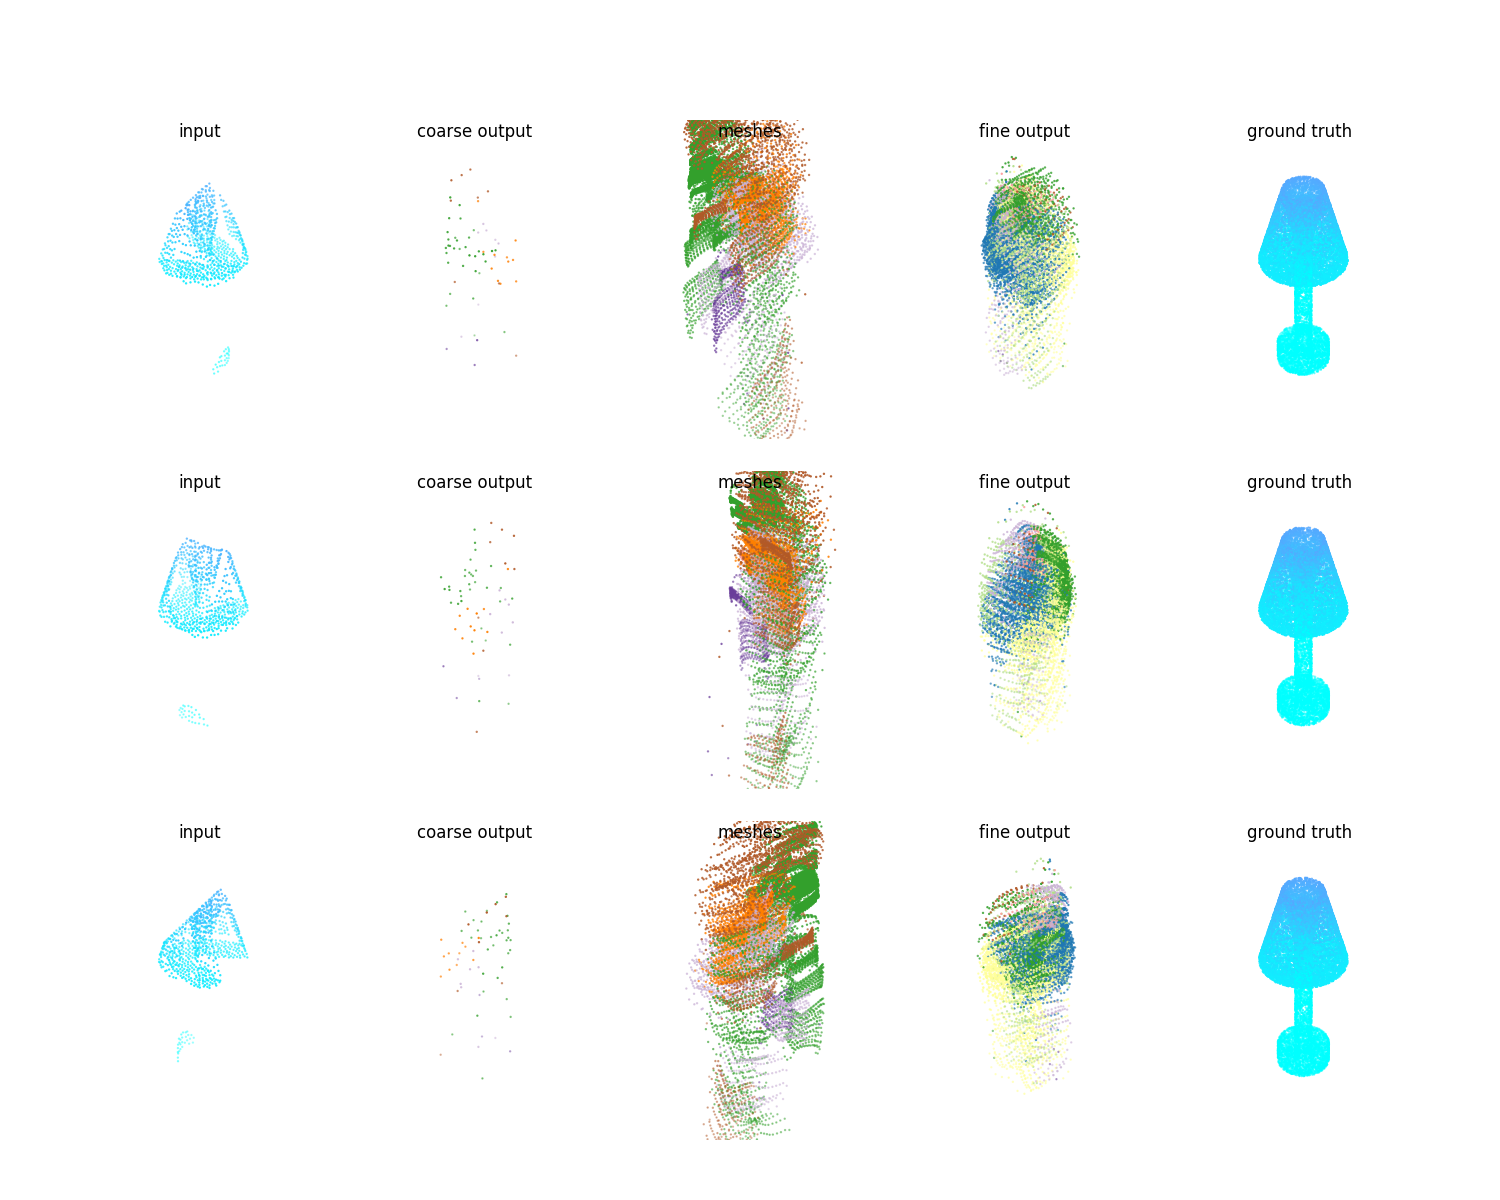
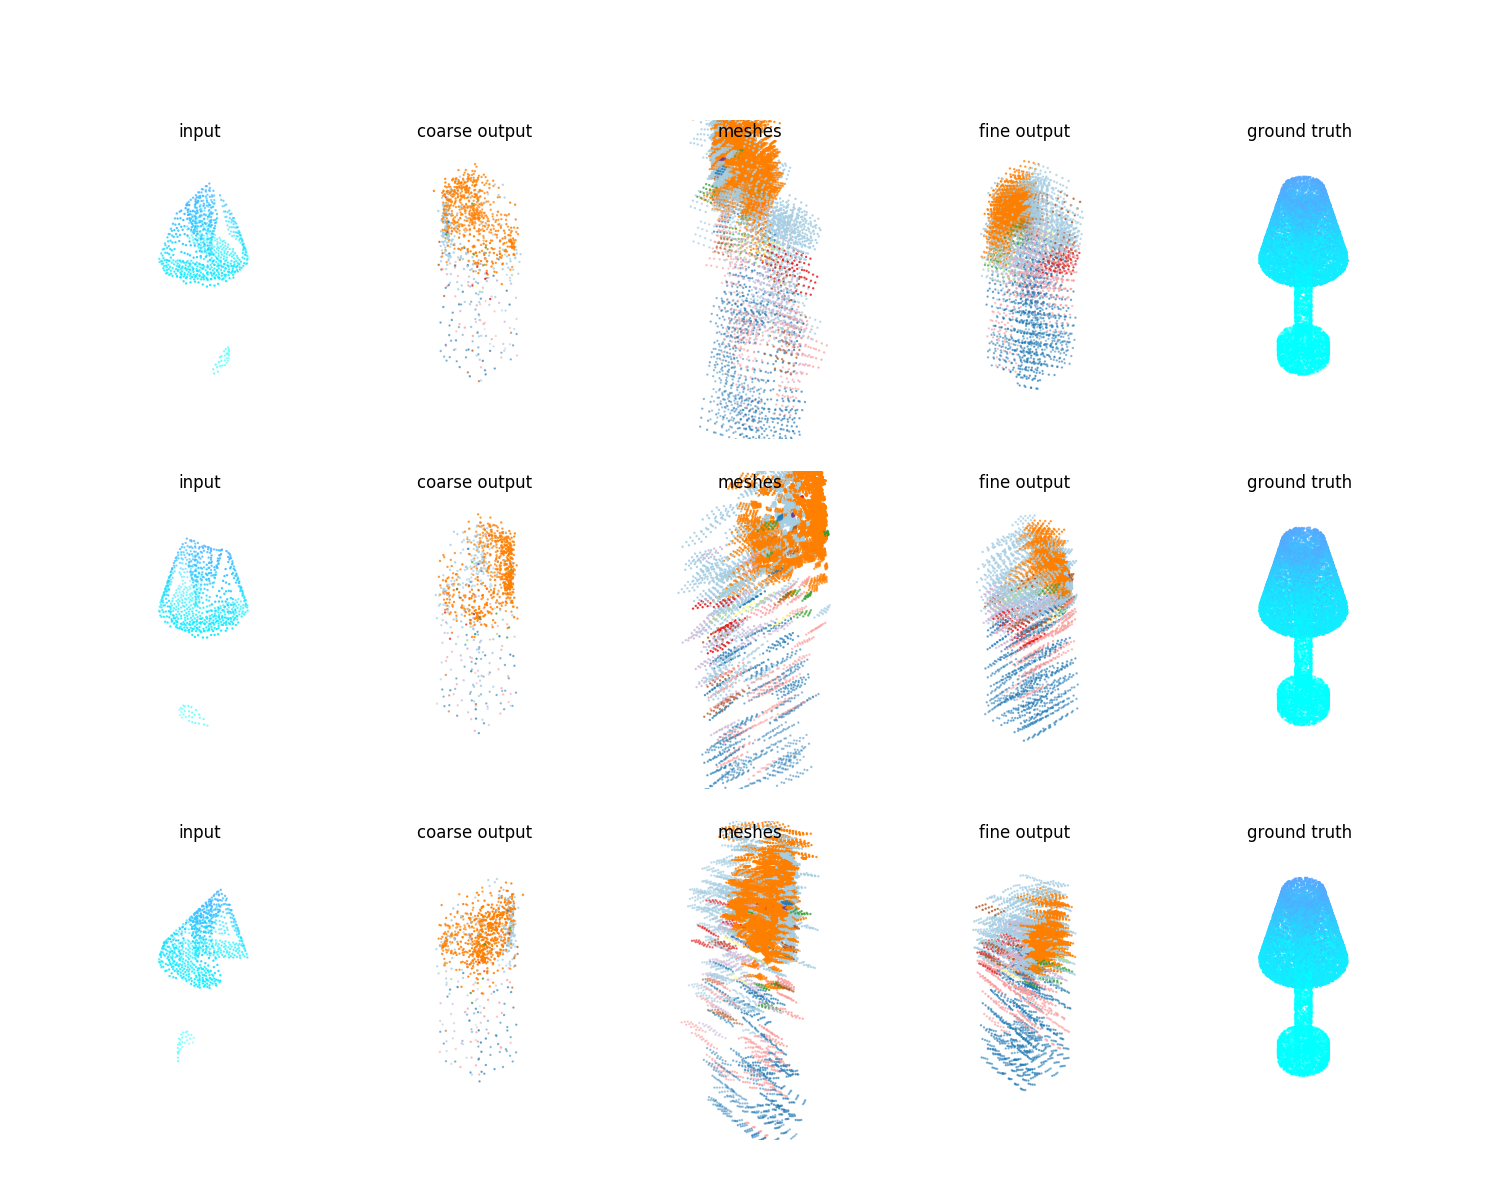
add plots

diff --git a/models/pcn_reg.py b/models/pcn_reg.py
@@ -33,9 +33,8 @@ class Model:
     def create_decoder(self, features):
         # mask = tf.dtypes.cast(tf.sequence_mask([3+self.channels], 14), tf.float32)
         with tf.variable_scope('decoder', reuse=tf.AUTO_REUSE):
-            coarse = mlp(features, [1024, 1024, self.num_coarse*1])
-            coarse = tf.reshape(coarse, [-1, self.num_coarse, 1]) 
-            coarse = tf.transpose(tf.math.top_k(tf.transpose(coarse, perm=[0, 2, 1]), k=self.num_coarse).values, perm=[0, 2, 1])
+            coarse = mlp(features, [1024, 1024, self.num_coarse*14])
+            coarse = tf.reshape(coarse, [-1, self.num_coarse, 14]) 
             coarse = mlp_conv_act(coarse, [64, 16, 3]) # + center
             # coarse *= mask
 
@@ -54,12 +53,8 @@ class Model:
             center = tf.tile(tf.expand_dims(coarse, 2), [1, 1, self.grid_size ** 2, 1])
             center = tf.reshape(center, [-1, self.num_fine, 3+11])
 
-            fine = mlp_conv_act(feat, [512, 512, 3]) # + center
-            """
-            fine *= [1,1,1,0,0,0,0,0,0,0,0,0,0,0]
-            fine += center
-            fine -= (center * [1,1,1,0,0,0,0,0,0,0,0,0,0,0])
-            """
+            fine = mlp_conv(feat, [512, 512, 3]) # + center
+            fine = tf.concat([fine, center[:,:,3:]], axis=-1)
             
             mesh = fine + center
 
@@ -69,7 +64,7 @@ class Model:
         p_coar_samp = tf.reduce_mean(p_coar_feat, [1])
         p_fine_samp = tf.reduce_mean(p_fine_feat, [1])
         entropy = tf.nn.relu(tf.log(self.channels*1.0) + tf.reduce_mean(tf.reduce_sum(p_coar_samp * tf.log(p_coar_samp), [1]), [0]))
-        entropy += tf.nn.relu(tf.log(self.channels*1.0) + tf.reduce_mean(tf.reduce_sum(p_fine_samp * tf.log(p_fine_samp), [1]), [0]))
+        # entropy += tf.nn.relu(tf.log(self.channels*1.0) + tf.reduce_mean(tf.reduce_sum(p_fine_samp * tf.log(p_fine_samp), [1]), [0]))
         # entropy += tf.reduce_mean(tf.nn.softmax_cross_entropy_with_logits(labels=p_center_feat, logits=p_fine_feat))
         return coarse, fine, mesh, entropy
 

diff --git a/models/pcn_cd.py b/models/pcn_cd.py
@@ -32,10 +32,9 @@ class Model:
 
     def create_decoder(self, features, inputs, npts):
         with tf.variable_scope('decoder', reuse=tf.AUTO_REUSE):
-            coarse = mlp(features, [1024, 1024, self.num_coarse*1])
-            coarse = tf.reshape(coarse, [-1, self.num_coarse, 1])
-            coarse = tf.transpose(tf.math.top_k(tf.transpose(coarse, perm=[0, 2, 1]), k=self.num_coarse).values, perm=[0, 2, 1])
-            coarse = mlp_conv_act(coarse, [32, 3]) # + center
+            coarse = mlp(features, [1024, 1024, self.num_coarse*14])
+            coarse = tf.reshape(coarse, [-1, self.num_coarse, 14])
+            coarse = mlp_conv_act(coarse, [64, 16, 3]) # + center
 
         with tf.variable_scope('folding', reuse=tf.AUTO_REUSE):
             grid = tf.meshgrid(tf.linspace(-self.grid_scale, self.grid_scale, self.grid_size), tf.linspace(-self.grid_scale, self.grid_scale, self.grid_size))
@@ -52,13 +51,8 @@ class Model:
             center = tf.tile(tf.expand_dims(coarse, 2), [1, 1, self.grid_size ** 2, 1])
             center = tf.reshape(center, [-1, self.num_fine, 3+self.channels])
 
-            # fine = mlp_conv(feat, [512, 512, 3+self.channels]) + center
-            fine = mlp_conv(feat, [512, 512, 3+self.channels])
-            """
-            fine *= [1,1,1,0,0,0,0,0,0,0,0,0,0,0]
-            fine += center
-            fine -= (center * [1,1,1,0,0,0,0,0,0,0,0,0,0,0])
-            """
+            fine = mlp_conv(feat, [512, 512, 3])
+            fine = tf.concat([fine, center[:,:,3:]], axis=-1)
 
             mesh = fine + center
 

diff --git a/test_shapenet.py b/test_shapenet.py
@@ -113,6 +113,14 @@ def test(args):
             pcd.points = Vector3dVector(pts_coord)
             pcd.colors = Vector3dVector(pts_color)
             write_point_cloud(os.path.join(args.results_dir, 'output2', synset_id, '%s.ply' % model_id), pcd, write_ascii=True)
+            #######
+            os.makedirs(os.path.join(args.results_dir, 'regions', synset_id), exist_ok=True)
+            val_min = np.min(completion2[0][:, 3:])
+            val_max = np.max(completion2[0][:, 3:])
+            for idx in range (3, 14):
+                pts_color = matplotlib.cm.Oranges((completion2[0][:, idx]) / (val_max))[:,0:3]
+                pcd.colors = Vector3dVector(pts_color)
+                write_point_cloud(os.path.join(args.results_dir, 'regions', synset_id, '%s_%s.ply' % (model_id, idx)), pcd, write_ascii=True)
             os.makedirs(os.path.join(args.results_dir, 'gt', synset_id), exist_ok=True)
             pts_coord = complete[:,0:3]
             if args.experiment == 'shapenet':

diff --git a/tf_util.py b/tf_util.py
@@ -37,21 +37,21 @@ def mlp_conv_act(inputs, layer_dims, act_dim=11, bn=None, bn_params=None):
     for i, num_out_channel in enumerate(layer_dims[:-1]):
         inputs = tf.contrib.layers.conv1d(
             inputs, num_out_channel,
-            kernel_size=12,
+            kernel_size=1,
             normalizer_fn=bn,
             normalizer_params=bn_params,
             scope='conv_%d' % i)
     feature = tf.contrib.layers.conv1d(
         inputs, layer_dims[-1],
-        kernel_size=12,
+        kernel_size=1,
         activation_fn=None,
         scope='conv_%d' % (len(layer_dims) - 1))
     act = tf.contrib.layers.conv1d(
         inputs, act_dim,
-        kernel_size=12,
-        activation_fn=tf.math.sigmoid,
+        kernel_size=1,
+        activation_fn=None,
         scope='conv_act')
-    outputs = tf.concat([feature, tf.nn.softmax(act)], axis=-1)
+    outputs = tf.concat([feature, act], axis=-1)
     return outputs
 
 def point_maxpool(inputs, npts, keepdims=False):
